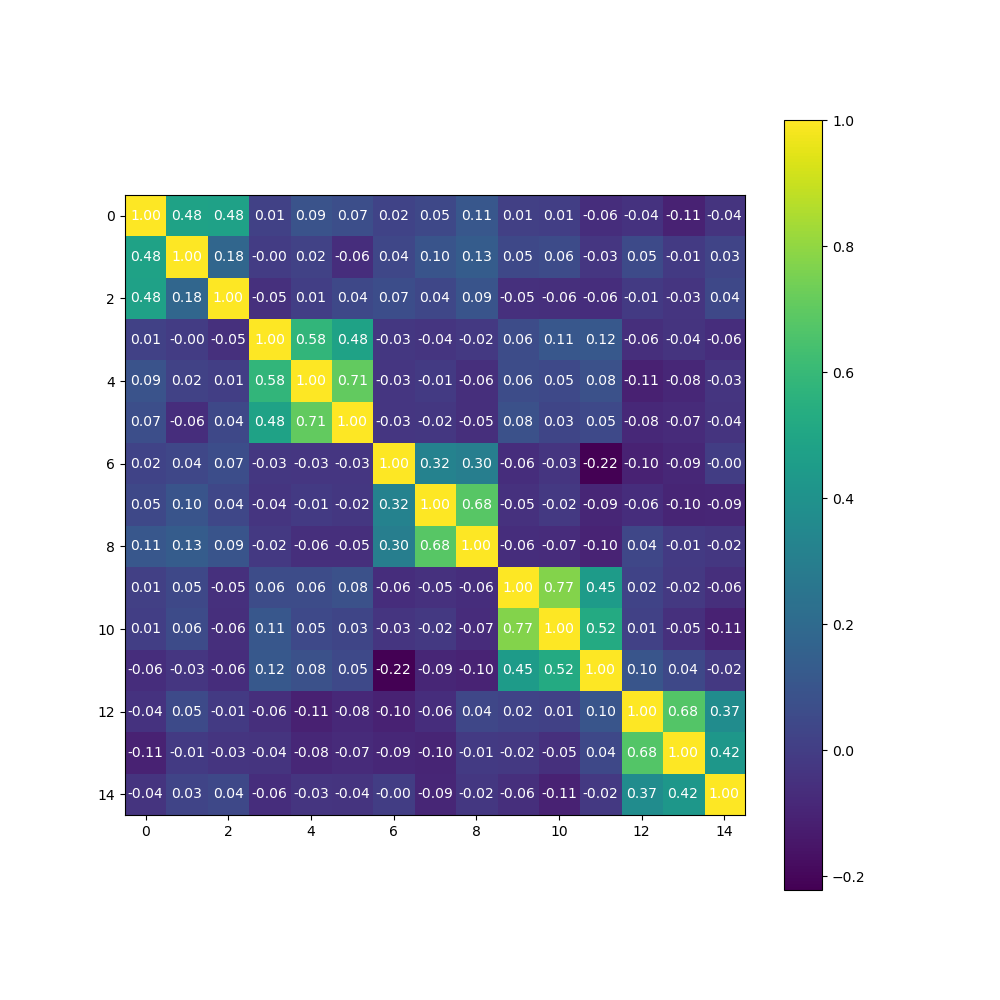
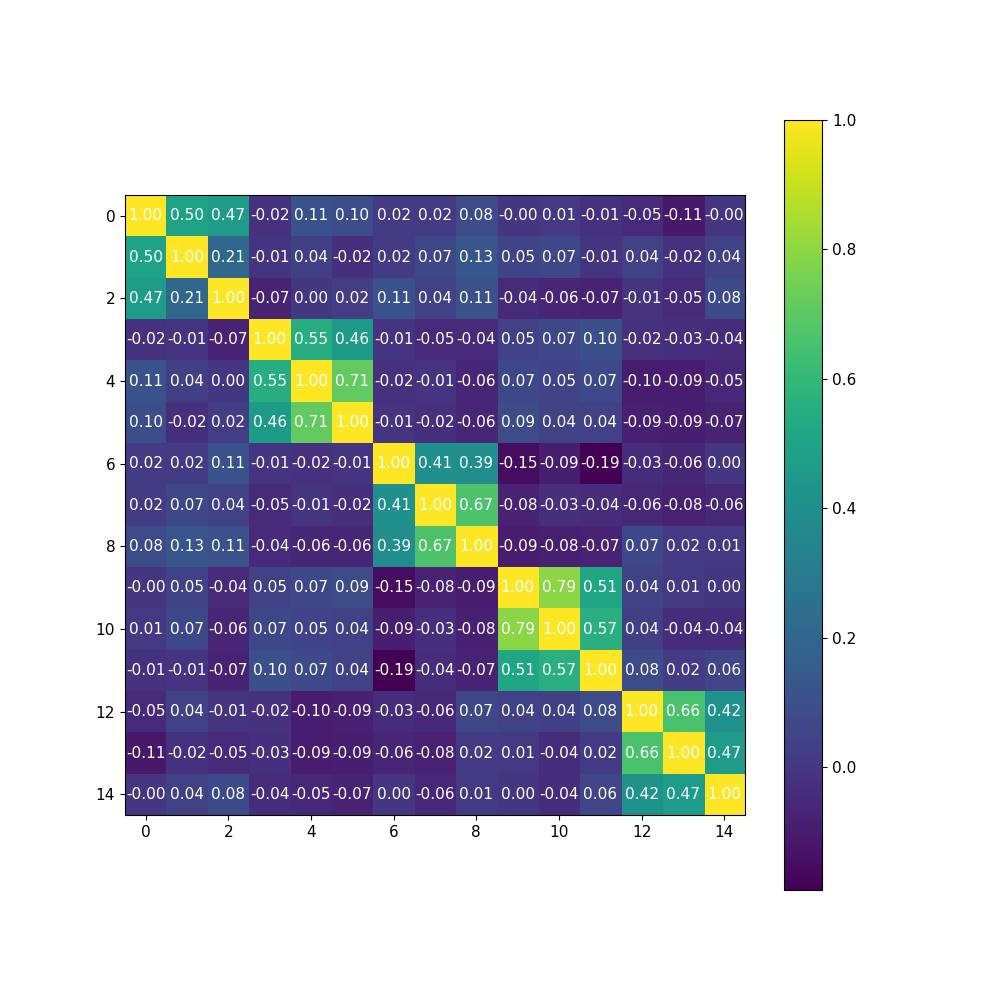
add yolov7-face

diff --git a/align.py b/align.py
@@ -1,0 +1,80 @@
+from typing import Tuple
+import torch
+import time
+import numpy as np
+import torch.backends.cudnn as cudnn
+from yolov7_face.models.experimental import attempt_load
+from yolov7_face.utils.datasets import LoadStreams, LoadImages
+from yolov7_face.utils.general import check_img_size, non_max_suppression,scale_coords, get_crop
+from yolov7_face.utils.align_trans import get_reference_facial_points, warp_and_crop_face
+def time_synchronized():
+    # pytorch-accurate time
+    if torch.cuda.is_available():
+        torch.cuda.synchronize()
+    return time.time()
+def kpt_tensor_to_list(keypoint_tensor):
+    keypoint_list = keypoint_tensor.tolist()
+    keypoint_coords = [keypoint_list[i:i+3][:2] for i in range(0, len(keypoint_list), 3)]
+    return [coord[:2] for coord in keypoint_coords]
+class YOLO_FACE:
+    def __init__(self, weights='yolov7-tiny.pt',imgsz=640,device=None,crop_size: Tuple[int, int] = (112, 112)):
+        # Initialize
+        self.device =  torch.device('cuda:0' if torch.cuda.is_available() else 'cpu') if device is None else device
+        # Load model
+        self.model = attempt_load(weights, map_location=self.device)  # load FP32 model
+        self.stride = int(self.model.stride.max())  # model stride
+        if isinstance(imgsz, (list, tuple)):
+            imgsz[0] = check_img_size(imgsz[0], s=self.stride)
+            imgsz[1] = check_img_size(imgsz[1], s=self.stride)
+        else:
+            imgsz = check_img_size(imgsz, s=self.stride)  # check img_size
+        self.imgsz = imgsz
+        self.stride = int(self.model.stride.max())
+        self.crop_size = crop_size
+        self.refrence = get_reference_facial_points(default_square=crop_size[0] == crop_size[1])
+
+    def detect(self,source):
+        self.webcam =  source.isnumeric() or source.endswith('.txt') or source.lower().startswith(('rtsp://', 'rtmp://', 'http://', 'https://'))
+        if self.webcam:
+            cudnn.benchmark = True  # set True to speed up constant image size inference
+            dataset = LoadStreams(source, img_size=self.imgsz, stride=self.stride)
+        else:
+            dataset = LoadImages(source, img_size=self.imgsz, stride=self.stride)
+        # Run inference
+        if self.device.type != 'cpu':
+            self.model(torch.zeros(1, 3, self.imgsz, self.imgsz).to(self.device).type_as(next(self.model.parameters())))  # run once
+        crops=[]
+        for _, img, im0s, _ in dataset:
+            img = torch.from_numpy(img).to(self.device).float() 
+            img /= 255.0  # 0 - 255 to 0.0 - 1.0
+            if img.ndimension() == 3:
+                img = img.unsqueeze(0)
+            # Inference
+            t1 = time_synchronized()
+            pred = self.model(img, augment=False)[0]
+            # Apply NMS
+            pred = non_max_suppression(pred, 0.25, 0.45)
+            t2 = time_synchronized()
+            for i, det in enumerate(pred):  # detections per image
+                im0 =im0s.copy()
+                if self.webcam:  # batch_size >= 1
+                    im0 = im0s[i].copy()
+                else:
+                    im0 = im0s.copy()
+                if len(det):
+                    # Rescale boxes from img_size to im0 size
+                    scale_coords(img.shape[2:], det[:, :4], im0.shape, kpt_label=False)
+                    scale_coords(img.shape[2:], det[:, 6:], im0.shape, kpt_label=5, step=3)
+                    for det_index, (*xyxy, _, _) in enumerate(reversed(det[:, :6])):
+                        facial5points = kpt_tensor_to_list(det[det_index, 6:])
+                        warped_face = warp_and_crop_face(np.array(im0s), facial5points, self.refrence, crop_size=self.crop_size)
+                        crops.append(warped_face)
+                    print(f'Done. ({t2 - t1:.3f}s)')
+        print(f'detect {len(crops)} faces in this source')
+        return crops
+
+if __name__ == '__main__':
+    with torch.no_grad():
+        yoloface = YOLO_FACE('yolov7_face/yolov7-tiny.pt',640)
+        crops = yoloface.detect('yolov7_face/data/images/test07.jpg')
+        print(len(crops))

diff --git a/build_database.py b/build_database.py
@@ -2,9 +2,10 @@ import net
 import torch
 import os
 from face_alignment import align
+from yolov7_face.align import YOLO_FACE
 import numpy as np
 import matplotlib.pyplot as plt
-
+import time
 adaface_models = {
     'ir_50':"pretrained/adaface_ir50_ms1mv2.ckpt",
     'ir_101':"pretrained/adaface_ir101_ms1mv2.ckpt",
@@ -20,9 +21,12 @@ def load_pretrained_model(architecture='ir_50'):
     model.eval()
     return model
 
-def to_input(pil_rgb_image):
+def to_input(pil_rgb_image,RGB=True):
     np_img = np.array(pil_rgb_image)
-    brg_img = ((np_img[:,:,::-1] / 255.) - 0.5) / 0.5
+    if RGB:
+        brg_img = ((np_img / 255.) - 0.5) / 0.5
+    else :
+        brg_img = ((np_img[:,:,::-1] / 255.) - 0.5) / 0.5
     tensor = torch.tensor(np.expand_dims(brg_img.transpose(2,0,1),axis=0)).float()
     return tensor
 def save_database_heatmap(data):
@@ -37,20 +41,38 @@ def save_database_heatmap(data):
 if __name__ == '__main__':
     device = torch.device("cuda" if torch.cuda.is_available() else "cpu")
     model = load_pretrained_model('ir_50').to(device)
+    print('face recongnition model loaded')
     ID_list_dir = 'face_database/ID'
     features = []
     ID_list = sorted(os.listdir(ID_list_dir))
-    for ID in ID_list:
-        path = os.path.join(ID_list_dir, ID)
-        for img_path in sorted(os.listdir(path)):
-            with torch.no_grad():
-                aligned_rgb_img = align.get_aligned_face(os.path.join(path, img_path))
-                bgr_tensor_input = to_input(aligned_rgb_img).to(device)
-                feature, _ = model(bgr_tensor_input)
-            features.append(feature)
+    isyolo = True
+    start = time.time()
+    if isyolo:
+        yoloface = YOLO_FACE('yolov7_face/yolov7-tiny.pt',device=device)
+        print('face detection model loaded')
+        start = time.time()
+        for ID in ID_list:
+            path = os.path.join(ID_list_dir, ID)
+            aligned_bgr_imgs =yoloface.detect(path)
+            for i,img in enumerate(aligned_bgr_imgs) :
+                tensor_img = to_input(img,True).to(device)
+                with torch.no_grad():
+                    feature, _ = model(tensor_img)
+                features.append(feature)
+    else:
+        for ID in ID_list:
+            path = os.path.join(ID_list_dir, ID)
+            for img_path in sorted(os.listdir(path)):
+                with torch.no_grad():
+                    aligned_rgb_img = align.get_aligned_face(os.path.join(path, img_path))
+                    if aligned_rgb_img is None: continue
+                    bgr_tensor_input = to_input(aligned_rgb_img,False).to(device)
+                    feature, _ = model(bgr_tensor_input)
+                features.append(feature)
+    print(f'building time: {time.time()-start}')
     database_dir = 'face_database/database_ir50.pt'
     features = torch.cat(features)
-    torch.save(features,database_dir)
+    # torch.save(features,database_dir)
     similarity_scores = features @ features.T
     save_database_heatmap(similarity_scores.cpu().detach().numpy())
     print('build success')

diff --git a/inference.py b/inference.py
@@ -5,6 +5,8 @@ from face_alignment import align
 import numpy as np
 import time
 import matplotlib.pyplot as plt
+from yolov7_face.align import YOLO_FACE
+import cv2
 adaface_models = {
     'ir_50':"pretrained/adaface_ir50_ms1mv2.ckpt",
     'ir_101':"pretrained/adaface_ir101_ms1mv2.ckpt",
@@ -20,9 +22,12 @@ def load_pretrained_model(architecture='ir_50'):
     model.eval()
     return model
 
-def to_input(pil_rgb_image):
+def to_input(pil_rgb_image,RGB=False):
     np_img = np.array(pil_rgb_image)
-    brg_img = ((np_img[:,:,::-1] / 255.) - 0.5) / 0.5
+    if RGB:
+        brg_img = ((np_img / 255.) - 0.5) / 0.5
+    else :
+        brg_img = ((np_img[:,:,::-1] / 255.) - 0.5) / 0.5
     tensor = torch.tensor(np.expand_dims(brg_img.transpose(2,0,1),axis=0)).float()
     return tensor
 
@@ -40,16 +45,30 @@ if __name__ == '__main__':
     model = load_pretrained_model('ir_101').to(device)
     test_image_path = 'face_alignment/test_images'
     features = []
+    face=[]
+    isyolo = True
     test_image = sorted(os.listdir(test_image_path))
+    yoloface = YOLO_FACE('yolov7_face/yolov7-tiny.pt',device=device) if isyolo else None
+    ct=0
     for fname in test_image:
         path = os.path.join(test_image_path, fname)
         with torch.no_grad():
             print(f'detecting {path}s')
-            aligned_rgb_img = align.get_aligned_face(path, isarray=True)
-            if(aligned_rgb_img is not None):
-                bgr_tensor_input = to_input(aligned_rgb_img).to(device)
-                feature, _ = model(bgr_tensor_input)
-                features.append(feature)
+            if isyolo:
+                aligned_bgr_imgs = yoloface.detect(path)
+                for i,img in enumerate(aligned_bgr_imgs) :
+                    cv2.imwrite(f'deteced_{ct}_{i}.jpg',img)
+                    bgr_tensor_input = to_input(img,True).to(device)
+                    feature, _ = model(bgr_tensor_input)
+                    features.append(feature)
+                    face.append(f'deteced_{ct}_{i}.jpg')
+                ct+=1
+            else:
+                aligned_rgb_img = align.get_aligned_face(path, isarray=True)
+                if(aligned_rgb_img is not None):
+                    bgr_tensor_input = to_input(aligned_rgb_img,False).to(device)
+                    feature, _ = model(bgr_tensor_input)
+                    features.append(feature)
     database_dir = 'face_database/database.pt'
     if(os.path.exists(database_dir)):
         database = torch.load(database_dir).to(device)
@@ -64,7 +83,7 @@ if __name__ == '__main__':
         save_database_heatmap(score)
         max_index = np.argmax(score, axis=1)
         for i,id in enumerate(max_index):
-            print(test_image[i])
+            print(face[i])
             if(score[i][id] >= 0.4):
                 print(f'detetct {ID_list[int(id/3)]} with similarity score {score[i][id]}')
             else:
